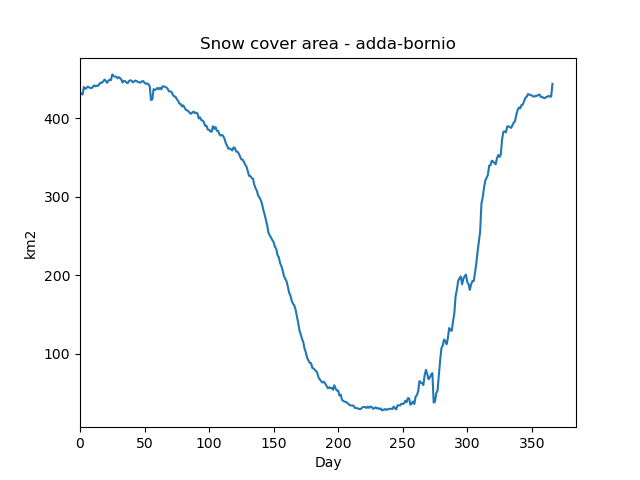
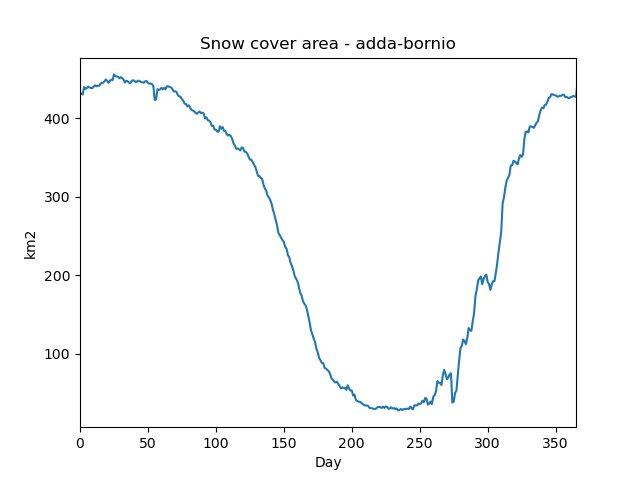
Inspeccion de casos raros y 'arreglo' mapocho

diff --git a/limpieza_datos.py b/limpieza_datos.py
@@ -9,10 +9,10 @@ import rioxarray as rxr
 import concurrent.futures
 import numpy as np
 
-external_disk = "D:/"
+external_disk = "E:/"
 data_path = os.path.join(external_disk, "data/")
 
-
+#%%
 def process_split_series(input_file, output_path):
     """
     Reads, processes, and splits the aggregated historical ERA5-Land time series
@@ -127,7 +127,7 @@ def calculate_area(snow_cover, basin):
         snow_cover = snow_cover.rio.reproject("EPSG:25830")
     elif basin == "indrawati-melamchi":
         snow_cover = snow_cover.rio.reproject("EPSG:32645")
-    elif basin == "machopo-almendros":
+    elif basin == "mapocho-almendros":
         snow_cover = snow_cover.rio.reproject("EPSG:32719")
     elif basin == "nenskra-Enguri":
         snow_cover = snow_cover.rio.reproject("EPSG:32638")
@@ -136,7 +136,7 @@ def calculate_area(snow_cover, basin):
     else:
         raise ValueError(f"Unsupported basin: {basin}. Supported basins are: "
                          "'adda-bornio', 'genil-dilar', 'indrawati-melamchi', "
-                         "'machopo-almendros', 'nenskra-Enguri', 'uncompahgre-ridgway'")
+                         "'mapocho-almendros', 'nenskra-Enguri', 'uncompahgre-ridgway'")
 
     df = pd.DataFrame(snow_cover["CGF_NDSI_Snow_Cover"])
 
@@ -228,17 +228,24 @@ def process_basin(basin):
         >>> process_basin('Guadalquivir')
         >>> process_basin('Ebro')
     """
-
-    print(f"**Warning:** Processing basin '{basin}' can take more than 2 hours to execute.")
+    if basin not in ['adda-bornio', 'genil-dilar', 'indrawati-melamchi', 'mapocho-almendros', 'nenskra-Enguri', 'uncompahgre-ridgway']:
+        raise ValueError(f"Unsupported basin: {basin}. Supported basins are: "
+                         "'adda-bornio', 'genil-dilar', 'indrawati-melamchi', "
+                         "'mapocho-almendros', 'nenskra-Enguri', 'uncompahgre-ridgway'")
+    
+    print(f"**Warning:** Processing basin '{basin}' can take more than 1 hour to execute.")
     confirmation = input("Are you sure you want to continue? (y/N): ").lower()
     if confirmation != 'y':
         print(f"Processing of basin '{basin}' cancelled by user.")
         return
     
-    archivos_hdf = [str(archivo) for archivo in Path(data_path + "basins" + "/" + basin).rglob("*.hdf")]
+    basin_path = Path(data_path, "basins", basin)
+    archivos_hdf = [str(archivo) for archivo in basin_path.rglob("*.hdf")]
+    archivos_shp = list(basin_path.glob("*.shp"))
     try:
-        archivos_shp = [str(archivo) for archivo in Path(data_path + "basins" + "/" + basin).glob("*.shp")]
-        area_path = archivos_shp[0]
+        if not archivos_shp:
+            raise FileNotFoundError(f"No shapefile (.shp) found in '{basin_path}'. ")
+        area_path = str(archivos_shp[0])
         area = gpd.read_file(area_path)
     except FileNotFoundError as e:
         print(f"Error: Could not find basin directory or shapefile for '{basin}'. {e}")
@@ -257,14 +264,50 @@ def process_basin(basin):
         df_datos.set_index('fecha', inplace=True)
         df_datos.sort_index(inplace=True)
         output_filepath = f"{data_path}csv/areas/{basin}.csv"
-        try:
-            df_datos.to_csv(output_filepath, mode='x')
-            print(f"\nbasin {basin} procesada. Results saved to '{output_filepath}'.")
-        except FileExistsError:
-            print(f"\nError: Output file '{output_filepath}' already exists for basin {basin}. Skipping save.")
+        if os.path.exists(output_filepath):
+            overwrite = input(f"Warning: File '{output_filepath}' already exists. Overwrite? (y/N): ".lower())
+            if overwrite != 'y':
+                print(f"Overwrite cancelled for basin '{basin}'")
+        df_datos.to_csv(output_filepath, index=False)
+
     else:
         print(f"\nNo valid snow cover data found for basin {basin}.")
+#%%
+def arreglar_mapocho(df):
+    """
+    Reemplaza los valores de 'area_nieve' que son 0 para el 1 de julio
+    con la media del día anterior y el día posterior.
 
-basins = os.listdir(data_path + "basins/")
-for basin in basins:
-    process_basin(basin)
+    Args:
+        df (pd.DataFrame): El DataFrame con las columnas 'fecha' (datetime)
+                           y 'area_nieve' (numérica).
+
+    Returns:
+        pd.DataFrame: El DataFrame con los valores reemplazados.
+    """
+
+    df2 = df.copy()
+    df2['fecha'] = pd.to_datetime(df2['fecha'])
+    condicion = (df2['fecha'].dt.month == 7) & (df2['fecha'].dt.day < 3) & (df2['area_nieve'] < 20)
+
+    for i in df2.index[condicion]:
+        indice_actual = df2.index.get_loc(i)
+        indices_vecinos = list(range(indice_actual-5, indice_actual)) + list(range(indice_actual +1, indice_actual +5))
+        valores_vecinos = []
+
+        for indice in indices_vecinos:
+            if 0 <= indice < len(df2):
+                valores_vecinos.append((df2.iloc[indice]['area_nieve']))
+        
+        df2.loc[i, 'area_nieve'] = np.mean(valores_vecinos)
+
+    return df2
+
+# basins = os.listdir(data_path + "basins/")
+# for basin in basins:
+# process_basin('mapocho-almendros')
+#%%
+mapocho = pd.read_csv(os.path.join(data_path, 'csv', 'areas', 'mapocho-almendros.csv'))
+mapocho = mapocho.drop(columns=['Unnamed: 0'])
+mapocho_arreglado = arreglar_mapocho(mapocho)
+mapocho_arreglado.to_csv(os.path.join(data_path, 'csv', 'areas', 'mapocho-almendros.csv'), index=False)

diff --git a/graficas.py b/graficas.py
@@ -5,6 +5,7 @@ import matplotlib.pyplot as plt
 import rioxarray as rxr
 from pathlib import Path
 import geopandas as gpd
+import os
 
 data_path ='E:/data/csv/areas/'
 
@@ -43,6 +44,9 @@ def plot_area_perday(basins, save=False, path='./img/lineplots/per_day'):
     """
     if not isinstance(basins, list):
         basins = [basins]
+
+    data_path = os.path.join('E:','data', 'csv', 'areas/')
+
     basins_path = [data_path + elemento + '.csv' for elemento in basins]
 
     for i, basin_file in enumerate(basins_path):
@@ -59,6 +63,7 @@ def plot_area_perday(basins, save=False, path='./img/lineplots/per_day'):
 
         sns.lineplot(df_grouped)
         plt.xlim(left=0)
+        plt.xlim(right=365)
         plt.xlabel('Day')
         plt.ylabel('km2')
         plt.title(f"Snow cover area - {basins[i]}")
@@ -116,6 +121,7 @@ def plot_area_permonth(basins, save=False, path='./img/lineplots/per_month'):
 
         sns.lineplot(df_grouped)
         plt.xlim(left=0)
+        plt.xlim(right=12)
         plt.xlabel('Month')
         plt.ylabel('km2')
         plt.title(f"Snow cover area - {basins[i]}")

diff --git a/inspeccion.py b/inspeccion.py
@@ -1,0 +1,41 @@
+#%%
+import pandas as pd
+import seaborn as sns
+import matplotlib.pyplot as plt
+import numpy as np
+#%%
+df = pd.read_csv('E:/data/csv/areas/mapocho-almendros_mod.csv')
+df
+df = df.set_index('fecha')
+df.index = pd.to_datetime(df.index)
+#%%
+df['fecha'] = pd.to_datetime(df['fecha'])
+df.info()
+
+#%%
+condicion = (df.index.month == 7) & (df.index.day < 5) & (df['area_nieve'] < 50)
+df[condicion]
+#%%
+# Reemplazo los valores incorrectos (0) de 'area_nieve' para el 1 de julio con la media de los valores del día anterior y posterior.
+df_grouped = df.groupby(df.index.dayofyear)['area_nieve'].mean()
+sns.lineplot(df_grouped)
+plt.show()
+
+#%%
+plt.close()
+#%%
+inicio_junio = pd.to_datetime('2025-07-01').dayofyear
+fin_julio = pd.to_datetime('2025-07-2').dayofyear
+
+# Obtener el día del año del índice
+dia_del_año = df.index.dayofyear
+
+# Crear la condición para filtrar
+condicion = (dia_del_año >= inicio_junio) & (dia_del_año <= fin_julio)
+
+pd.set_option('display.max_rows', None)
+
+df2 = df[condicion]
+df2
+#%%
+pd.reset_option('display.max_rows')
